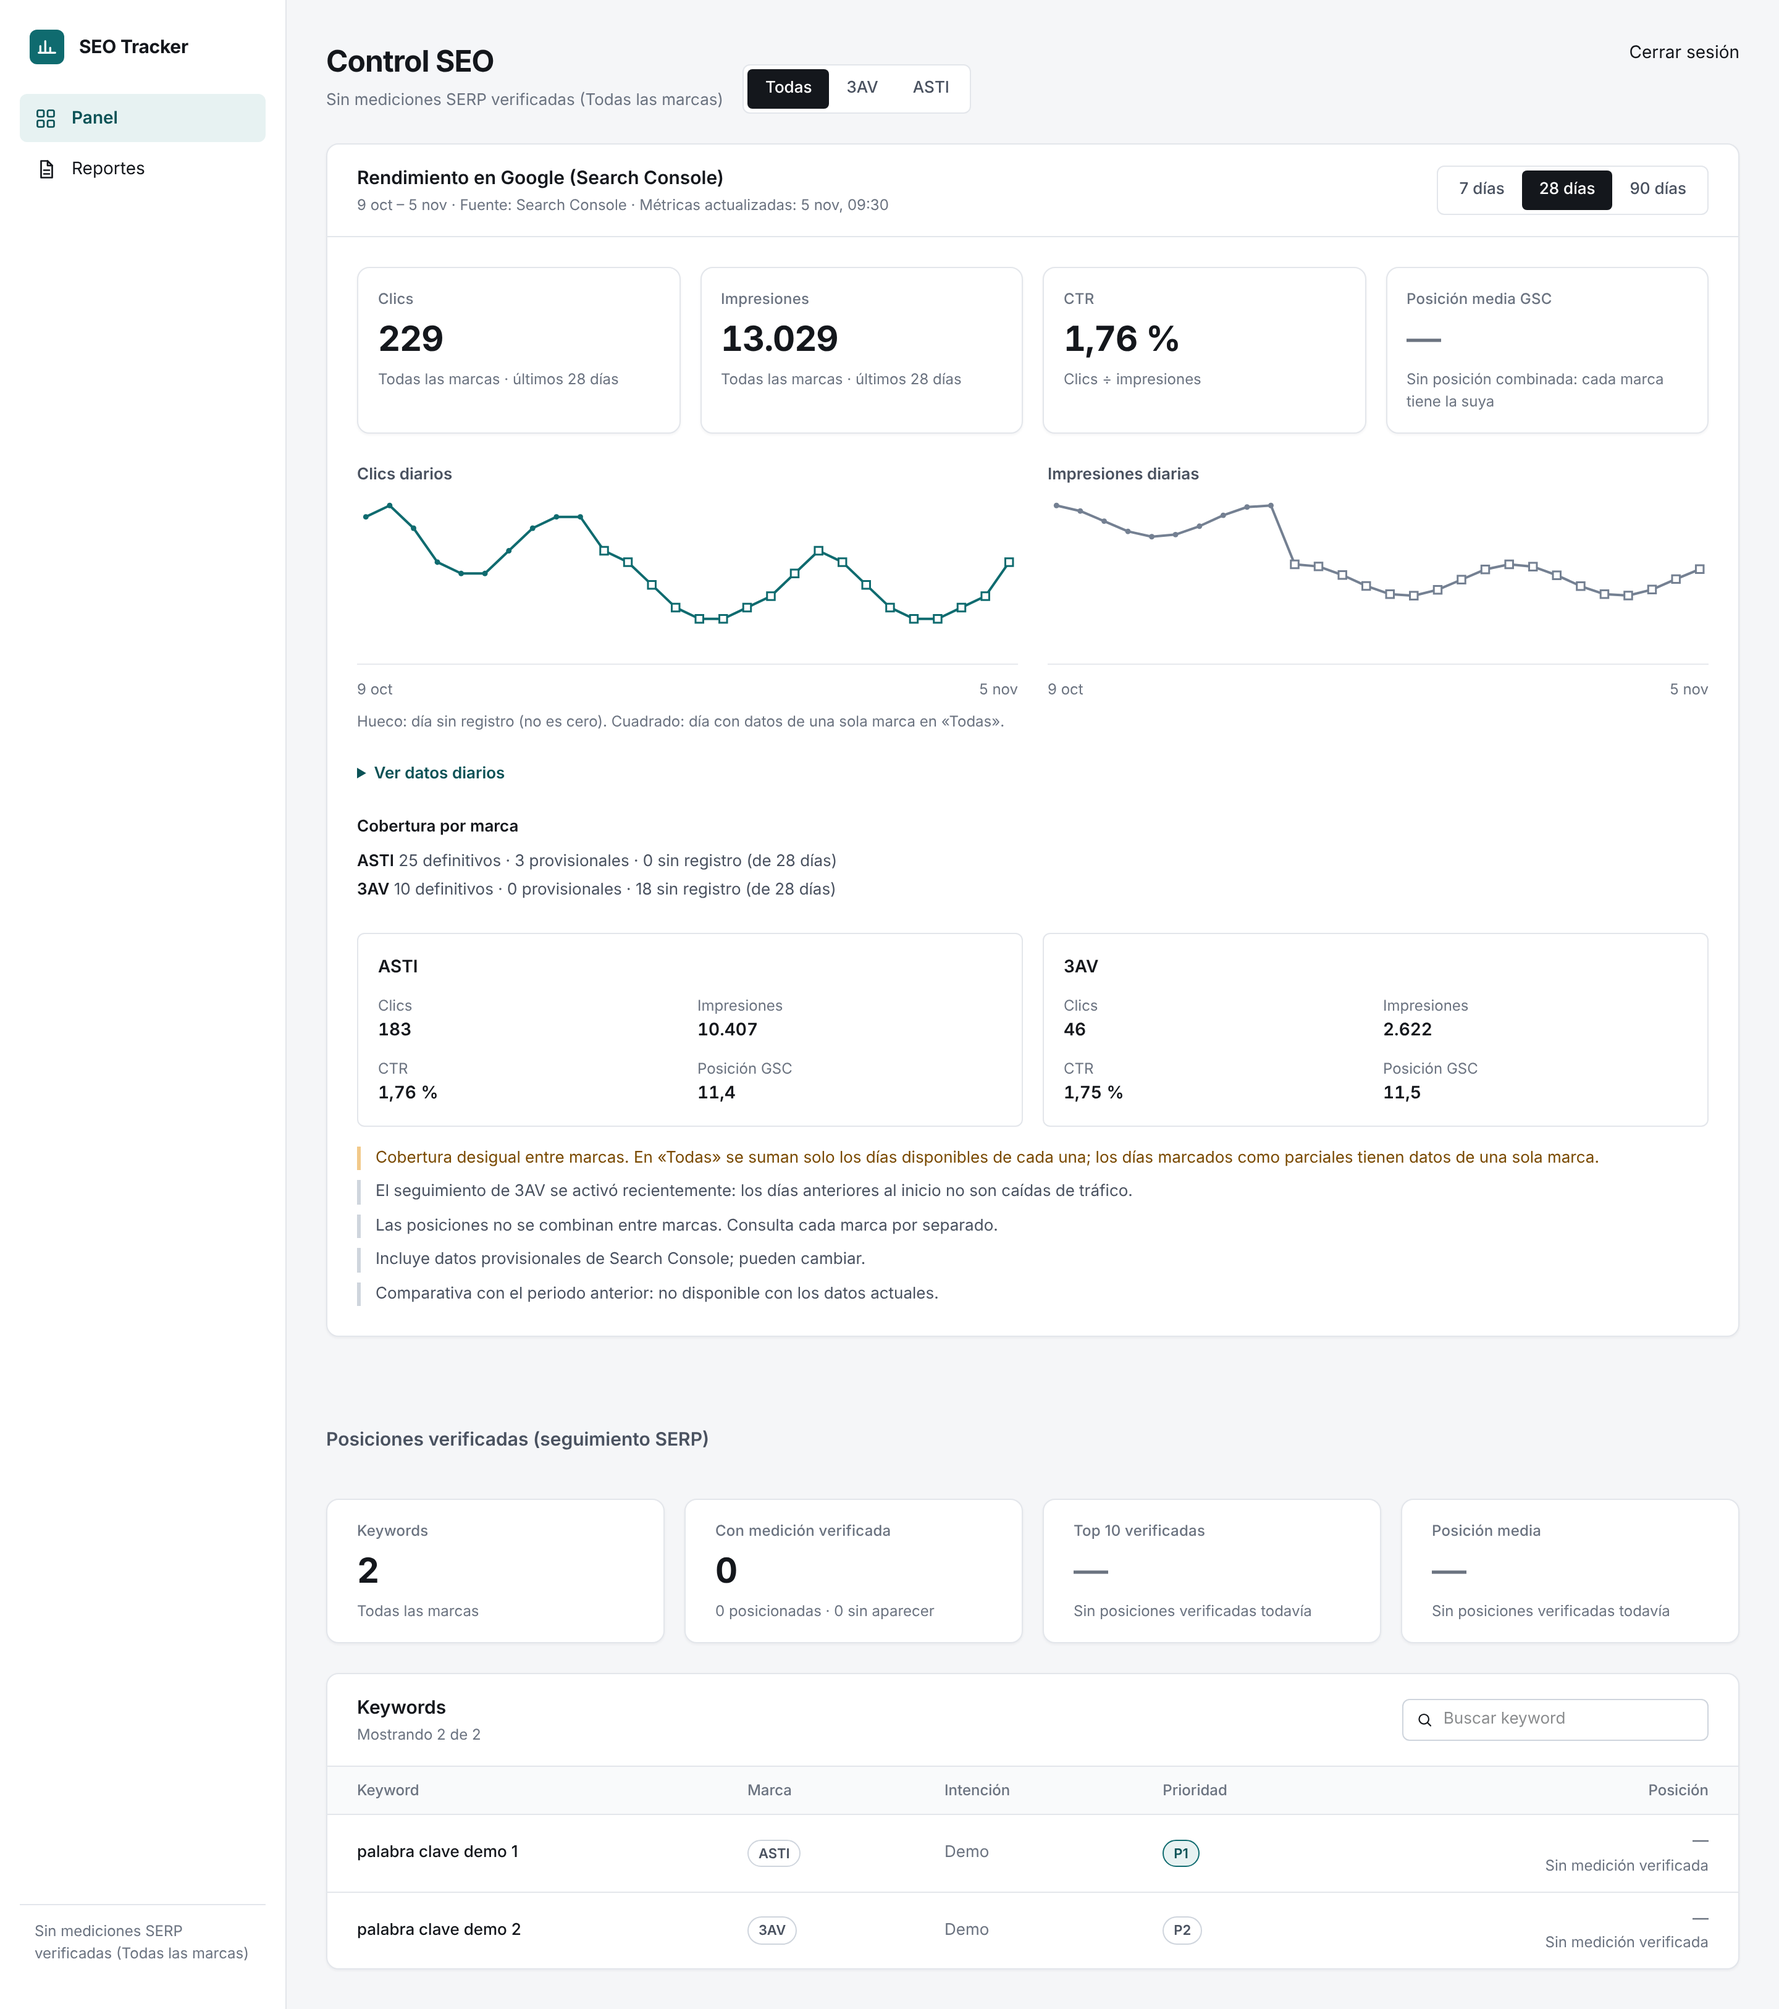
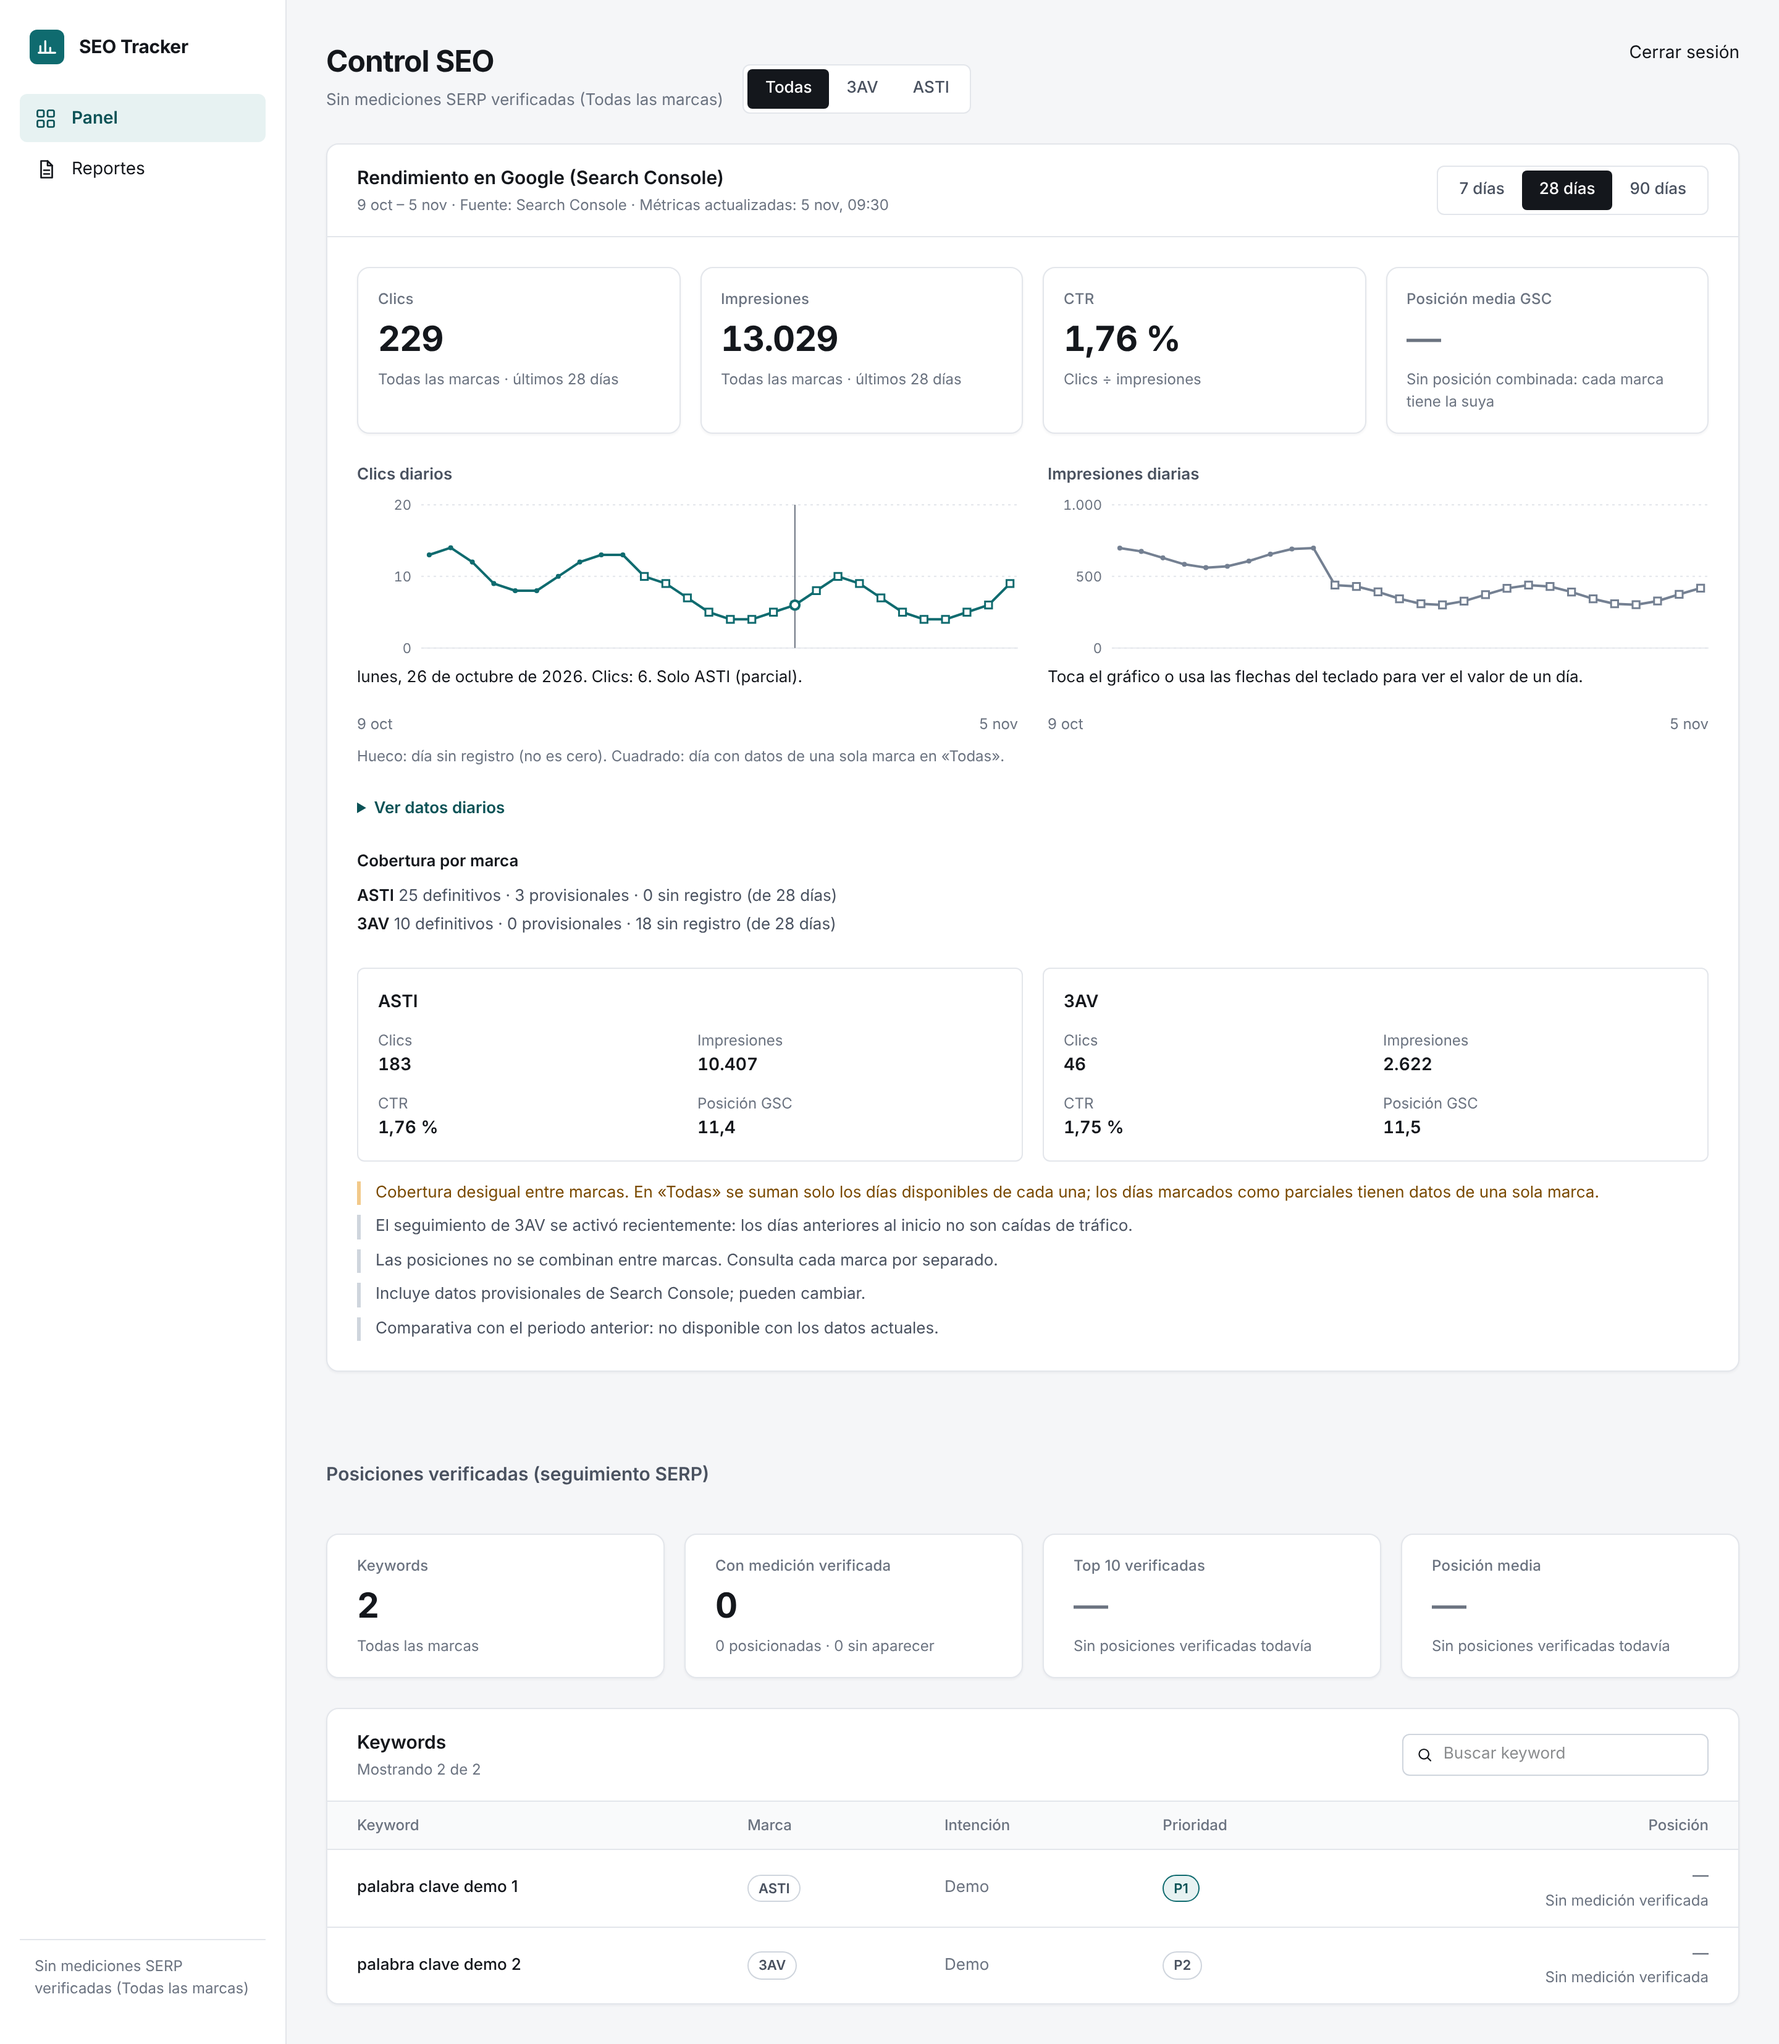
GSC-04 (ajuste del propietario, PR #33): escala Y, detalle del día y acceso táctil y por teclado
- Escala Y con referencias 0, mitad y máximo redondeado (niceCeil), con guías sutiles. El cálculo de la serie no cambia.
- Detalle del día bajo cada gráfico: fecha larga en español, valor, y en «Todas» la marca que aporta datos («Solo ASTI (parcial)» o «ASTI + 3AV»). Un día sin registro se muestra como «Sin registro», nunca como 0.
- Interacción: puntero y tacto seleccionan el día más cercano; teclado con flechas, Inicio y Fin; Escape la quita. Se reinicia al cambiar marca o periodo. Región aria-live para lectores de pantalla.
- Pruebas: escala, ticks, índice por posición, movimiento por teclado, lectura de días (ausente, parcial, combinado, cero real, provisional) y formato de fecha. Accesibilidad e interacción comprobadas por contrato estático. Suite: 277/277.
- Capturas DEMO regeneradas con el detalle visible (360, 390, 768, 1440 px).

Claude-Session: https://claude.ai/code/session_01Lf3EfbupujxkHCm4n3MjJd

diff --git a/app/dashboard/GscPanel.jsx b/app/dashboard/GscPanel.jsx
@@ -2,13 +2,16 @@
 
 // GSC-04 · Rendimiento de Search Console dentro de /dashboard. Solo lectura de
 // GET /api/gsc/metrics con el token de sesión del propietario. No usa claves de servidor.
-import { useEffect, useState } from 'react';
+import { useEffect, useRef, useState } from 'react';
 import {
   VIEW_STATES,
   buildGscView,
   chartGeometry,
+  describeDay,
   formatCount,
   formatDay,
+  indexAtX,
+  moveIndex,
   stateFromHttp,
 } from '../../lib/gsc/dashboard-view.mjs';
 
@@ -58,43 +61,120 @@ function KpiTile({ kpi }) {
   );
 }
 
-// Gráfico de línea en SVG. Sin texto dentro del SVG (escala con el ancho). Los días parciales
-// de «Todas» van como cuadrados; los días sin registro, como huecos en la base.
-function TrendChart({ series, metricKey, label, tone }) {
+// Gráfico de línea en SVG con referencias Y, detalle del día y navegación accesible.
+// · Puntero o tacto: el día más cercano se selecciona y su detalle aparece bajo el gráfico.
+// · Teclado: el contenedor recibe foco; flechas, Inicio y Fin mueven el día; Escape lo quita.
+// · El detalle vive en una región aria-live, así que un lector de pantalla lo anuncia.
+// · Un día sin registro se dice «Sin registro», nunca 0. Un día parcial indica la marca que aporta.
+function TrendChart({ series, metricKey, label, unit, tone }) {
   const geo = chartGeometry(series, metricKey);
+  const [active, setActive] = useState(null);
+  const plotRef = useRef(null);
+  const svgRef = useRef(null);
+  const n = series.length;
+  const readoutId = `gsc-readout-${metricKey}`;
   const withRows = series.filter((p) => p.hasRow && p[metricKey] !== null).length;
   const partialCount = series.filter((p) => p.partial).length;
-  const first = series[0]?.date;
-  const last = series[series.length - 1]?.date;
   const summary =
-    `${label}: ${withRows} de ${series.length} días con datos, máximo ${formatCount(geo.max)}. ` +
+    `${label}: ${withRows} de ${n} días con datos, máximo ${formatCount(geo.max)}. ` +
     (partialCount > 0 ? `${partialCount} días con datos de una sola marca. ` : '') +
     'Los días sin registro aparecen como huecos.';
+
+  const onPointer = (e) => {
+    const svg = svgRef.current;
+    if (!svg || n === 0) return;
+    const rect = svg.getBoundingClientRect();
+    if (rect.width === 0) return;
+    const vbX = ((e.clientX - rect.left) * geo.width) / rect.width;
+    setActive(indexAtX(vbX, n, { width: geo.width, pad: geo.pad }));
+  };
+
+  const onKeyDown = (e) => {
+    if (e.key === 'Escape') {
+      e.preventDefault();
+      setActive(null);
+      return;
+    }
+    if (['ArrowLeft', 'ArrowRight', 'Home', 'End'].includes(e.key)) {
+      e.preventDefault();
+      const next = moveIndex(active, e.key, n);
+      if (next !== null) setActive(next);
+    }
+  };
+
+  const current = active === null ? null : series[active];
+  const readout = current ? describeDay(current, metricKey, unit) : null;
+  const guideX = active === null ? null : geo.xs[active];
+  const focusY = current && current.hasRow && typeof current[metricKey] === 'number' ? yForValue(current[metricKey], geo) : null;
 
   return (
     <figure className="sd-gsc-chart" data-tone={tone}>
       <figcaption className="sd-gsc-chart-title">{label}</figcaption>
-      <svg viewBox={`0 0 ${geo.width} ${geo.height}`} role="img" aria-label={summary} focusable="false">
-        <line x1="0" x2={geo.width} y1={geo.height - 8} y2={geo.height - 8} className="sd-gsc-baseline" />
-        {geo.segments.map((d, i) => (
-          <path key={i} d={d} className="sd-gsc-line" vectorEffect="non-scaling-stroke" />
-        ))}
-        {geo.points.map((pt, i) => (
-          <circle key={`p${i}`} cx={pt.x} cy={pt.y} r="2.5" className="sd-gsc-dot" vectorEffect="non-scaling-stroke" />
-        ))}
-        {geo.partials.map((pt, i) => (
-          <rect key={`q${i}`} x={pt.x - 3.5} y={pt.y - 3.5} width="7" height="7" className="sd-gsc-partial" vectorEffect="non-scaling-stroke" />
-        ))}
-        {geo.gaps.map((g, i) => (
-          <circle key={`g${i}`} cx={g.x} cy={g.y} r="2.5" className="sd-gsc-gap" vectorEffect="non-scaling-stroke" />
-        ))}
-      </svg>
+      <div className="sd-gsc-plot">
+        <div className="sd-gsc-yaxis" aria-hidden="true">
+          {geo.ticks.map((t) => (
+            <span key={t.value} style={{ top: `${(Number(t.y) / geo.height) * 100}%` }}>{t.label}</span>
+          ))}
+        </div>
+        <div
+          ref={plotRef}
+          className="sd-gsc-svgwrap"
+          role="group"
+          tabIndex={0}
+          aria-label={summary}
+          aria-describedby={readoutId}
+          onKeyDown={onKeyDown}
+        >
+          <svg
+            ref={svgRef}
+            viewBox={`0 0 ${geo.width} ${geo.height}`}
+            aria-hidden="true"
+            focusable="false"
+            onPointerDown={onPointer}
+            onPointerMove={(e) => {
+              if (e.pointerType === 'mouse') onPointer(e);
+            }}
+          >
+            {geo.ticks.map((t) => (
+              <line key={`grid${t.value}`} x1="0" x2={geo.width} y1={t.y} y2={t.y} className="sd-gsc-grid" vectorEffect="non-scaling-stroke" />
+            ))}
+            <line x1="0" x2={geo.width} y1={geo.height - geo.pad} y2={geo.height - geo.pad} className="sd-gsc-baseline" />
+            {geo.segments.map((d, i) => (
+              <path key={i} d={d} className="sd-gsc-line" vectorEffect="non-scaling-stroke" />
+            ))}
+            {geo.points.map((pt, i) => (
+              <circle key={`p${i}`} cx={pt.x} cy={pt.y} r="2.5" className="sd-gsc-dot" vectorEffect="non-scaling-stroke" />
+            ))}
+            {geo.partials.map((pt, i) => (
+              <rect key={`q${i}`} x={pt.x - 3.5} y={pt.y - 3.5} width="7" height="7" className="sd-gsc-partial" vectorEffect="non-scaling-stroke" />
+            ))}
+            {geo.gaps.map((g, i) => (
+              <circle key={`g${i}`} cx={g.x} cy={g.y} r="2.5" className="sd-gsc-gap" vectorEffect="non-scaling-stroke" />
+            ))}
+            {guideX !== null && (
+              <line x1={guideX} x2={guideX} y1={geo.pad} y2={geo.height - geo.pad} className="sd-gsc-guide" vectorEffect="non-scaling-stroke" />
+            )}
+            {focusY !== null && guideX !== null && (
+              <circle cx={guideX} cy={focusY} r="4.5" className="sd-gsc-focus" vectorEffect="non-scaling-stroke" />
+            )}
+          </svg>
+        </div>
+      </div>
+      <p id={readoutId} className="sd-gsc-readout" aria-live="polite" data-missing={readout?.missing ? 'true' : 'false'}>
+        {readout ? readout.text : 'Toca el gráfico o usa las flechas del teclado para ver el valor de un día.'}
+      </p>
       <div className="sd-gsc-chart-axis">
-        <span>{first ? formatDay(first) : ''}</span>
-        <span>{last ? formatDay(last) : ''}</span>
+        <span>{series[0]?.date ? formatDay(series[0].date) : ''}</span>
+        <span>{series[n - 1]?.date ? formatDay(series[n - 1].date) : ''}</span>
       </div>
     </figure>
   );
+}
+
+// Posición Y de un valor con la misma escala que la geometría del gráfico.
+function yForValue(value, geo) {
+  const y = geo.height - geo.pad - (value / geo.max) * (geo.height - 2 * geo.pad);
+  return y.toFixed(1);
 }
 
 function ChartLegend({ showPartial }) {
@@ -272,8 +352,8 @@ export default function GscPanel({ supabase, brand }) {
         ) : (
           <>
             <div className="sd-gsc-charts">
-              <TrendChart series={current.series} metricKey="clicks" label="Clics diarios" tone="clicks" />
-              <TrendChart series={current.series} metricKey="impressions" label="Impresiones diarias" tone="impressions" />
+              <TrendChart key={`${brand}-${period}-clicks`} series={current.series} metricKey="clicks" label="Clics diarios" unit="Clics" tone="clicks" />
+              <TrendChart key={`${brand}-${period}-impressions`} series={current.series} metricKey="impressions" label="Impresiones diarias" unit="Impresiones" tone="impressions" />
             </div>
             <ChartLegend showPartial={isAll} />
             <DailyTable series={current.series} showBrands={isAll} />

diff --git a/app/dashboard/dashboard.css b/app/dashboard/dashboard.css
@@ -916,3 +916,79 @@
   font-weight: 600;
   color: var(--sd-text);
 }
+
+/* GSC-04 (ajuste del propietario): escala Y, detalle del día y foco accesible. */
+.sd-gsc-plot {
+  display: grid;
+  grid-template-columns: 44px minmax(0, 1fr);
+  gap: var(--sd-space-2);
+  align-items: stretch;
+}
+
+.sd-gsc-yaxis {
+  position: relative;
+  font-size: 11px;
+  color: var(--sd-text-3);
+  font-variant-numeric: tabular-nums;
+}
+
+.sd-gsc-yaxis span {
+  position: absolute;
+  right: 0;
+  transform: translateY(-50%);
+  white-space: nowrap;
+  line-height: 1;
+}
+
+.sd-gsc-svgwrap {
+  position: relative;
+  min-width: 0;
+  border-radius: var(--sd-radius-sm);
+}
+
+.sd-gsc-svgwrap:focus-visible {
+  outline: 2px solid var(--sd-focus);
+  outline-offset: 3px;
+}
+
+.sd-gsc-svgwrap svg {
+  touch-action: pan-y;
+  cursor: crosshair;
+}
+
+.sd-gsc-grid {
+  stroke: var(--sd-border);
+  stroke-width: 1;
+  stroke-dasharray: 2 3;
+}
+
+.sd-gsc-guide {
+  stroke: var(--sd-text-3);
+  stroke-width: 1;
+}
+
+.sd-gsc-focus {
+  fill: var(--sd-surface);
+  stroke-width: 2;
+}
+
+.sd-gsc-chart[data-tone='clicks'] .sd-gsc-focus {
+  stroke: var(--gsc-clicks);
+}
+
+.sd-gsc-chart[data-tone='impressions'] .sd-gsc-focus {
+  stroke: var(--gsc-impr);
+}
+
+.sd-gsc-readout {
+  margin: var(--sd-space-2) 0 0;
+  min-height: 2.6em;
+  font-size: 13px;
+  color: var(--sd-text);
+  font-variant-numeric: tabular-nums;
+}
+
+.sd-gsc-readout[data-missing='true'] {
+  color: var(--sd-text-3);
+  font-style: italic;
+}

diff --git a/docs/gsc-04/capturas-demo/README.md b/docs/gsc-04/capturas-demo/README.md
@@ -4,3 +4,5 @@ Capturas de `/dashboard` con datos sintéticos (DEMO), generadas con `lib/gsc/me
 
 - `demo-360-todas-28.png`, `demo-390-todas-28.png`, `demo-768-todas-28.png`, `demo-1440-todas-28.png`: vista «Todas», periodo 28 días, dos marcas con cobertura desigual para probar las notas.
 - Medición automática: sin scroll horizontal de página en 360, 390, 768 y 1440 px.
+
+Las capturas se generaron con un toque de puntero sobre el gráfico de clics (día del 26 de octubre, «Solo ASTI (parcial)»), para mostrar el detalle del día y la guía vertical.
